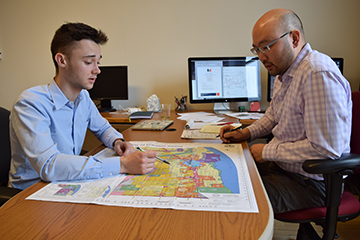
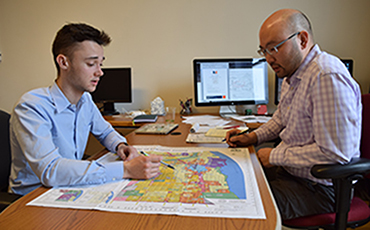
Fixed photo dimensions to be consistent

diff --git a/public/index.html b/public/index.html
@@ -354,7 +354,7 @@
                         <div class="col-sm-6 col-md-4 col-lg-4 mb-md-50 wow fadeIn" data-wow-delay="0.2s" data-wow-duration="2s">
                             
                             <div class="post-prev-img post-prev-border">
-                                <a href="https://evanstonroundtable.com/main.asp?SectionID=4&SubSectionID=4&ArticleID=16531" target="_blank"><img src="images/blog/latest5.jpg" alt="" /></a>
+                                <a href="https://evanstonroundtable.com/main.asp?SectionID=4&SubSectionID=4&ArticleID=16531" target="_blank"><img src="images/blog/latest6.png" alt="" /></a>
                             </div>
                             
                             <div class="post-prev-title">
